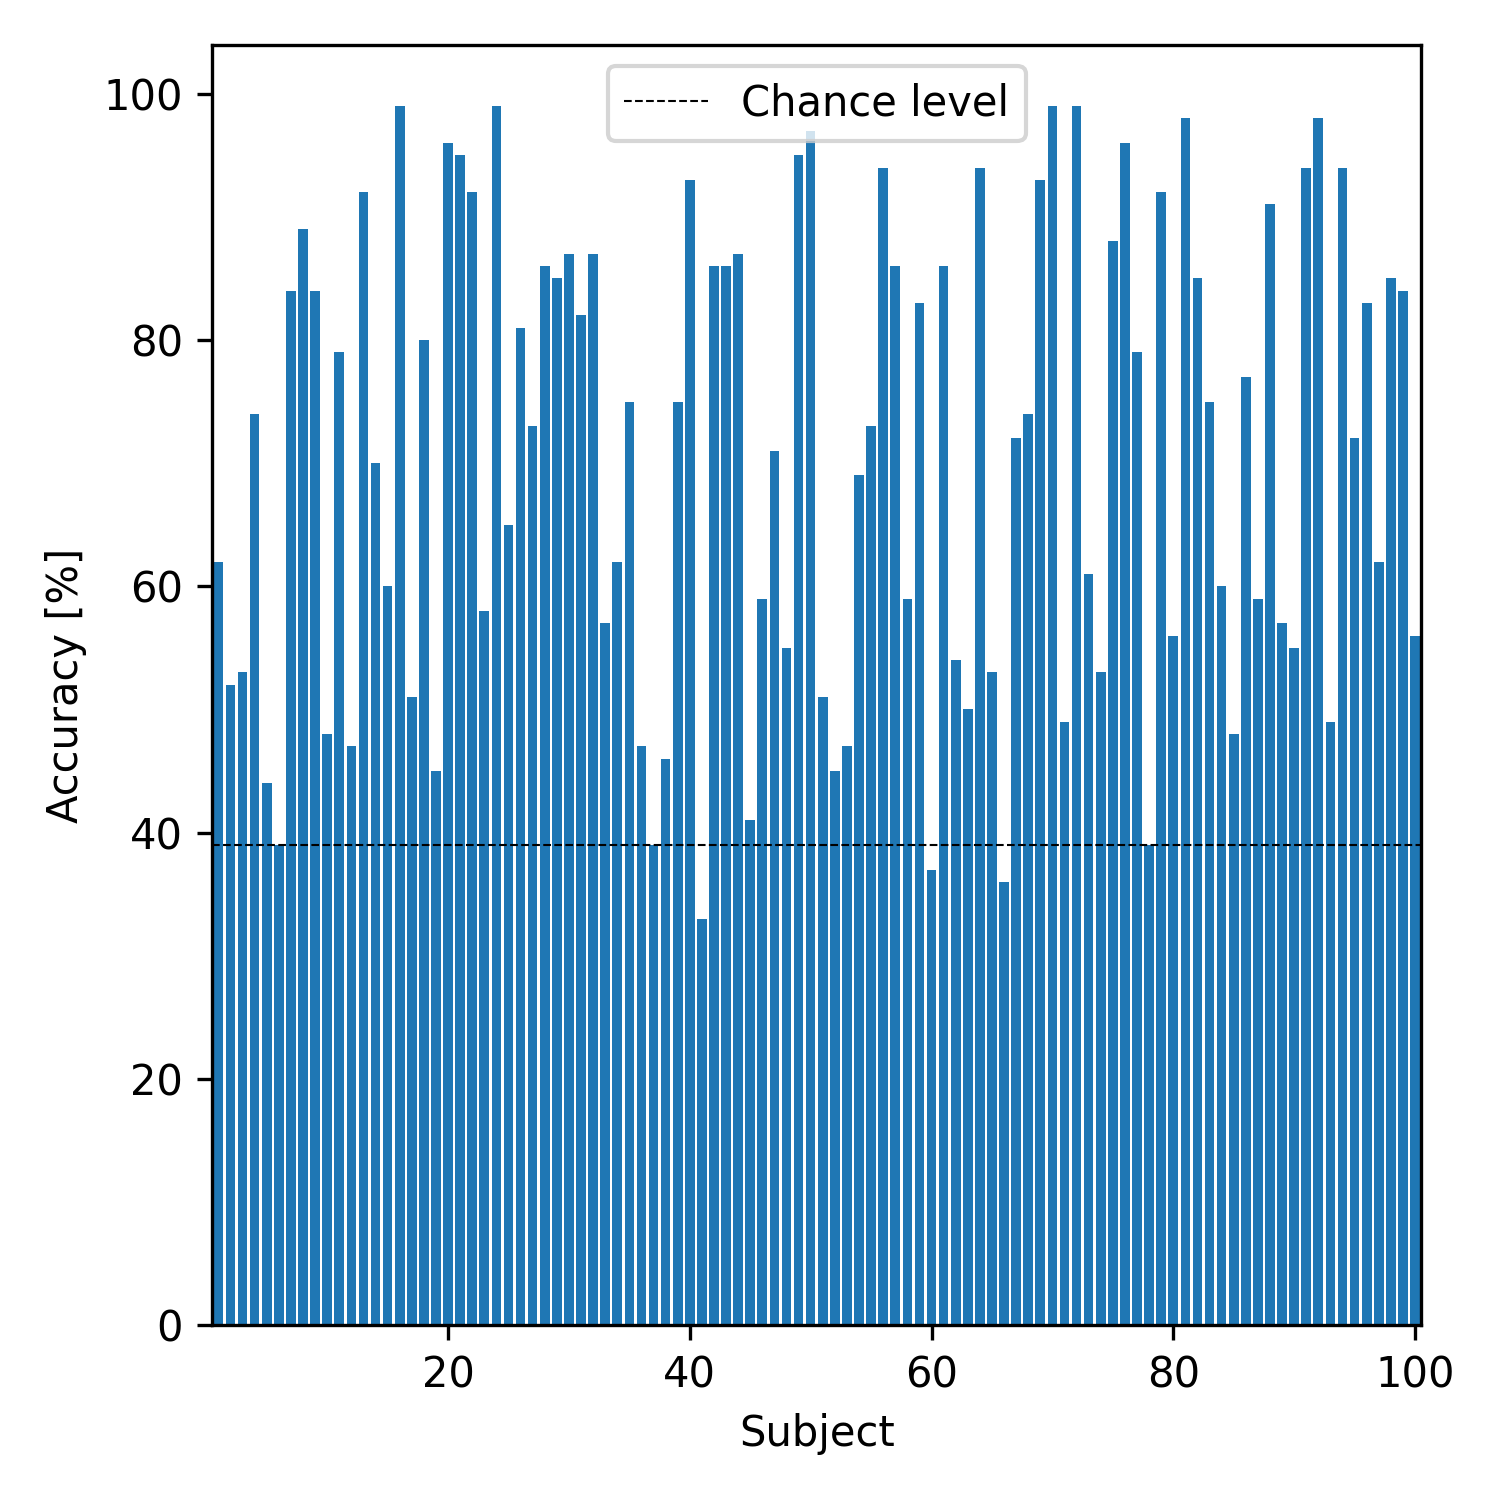
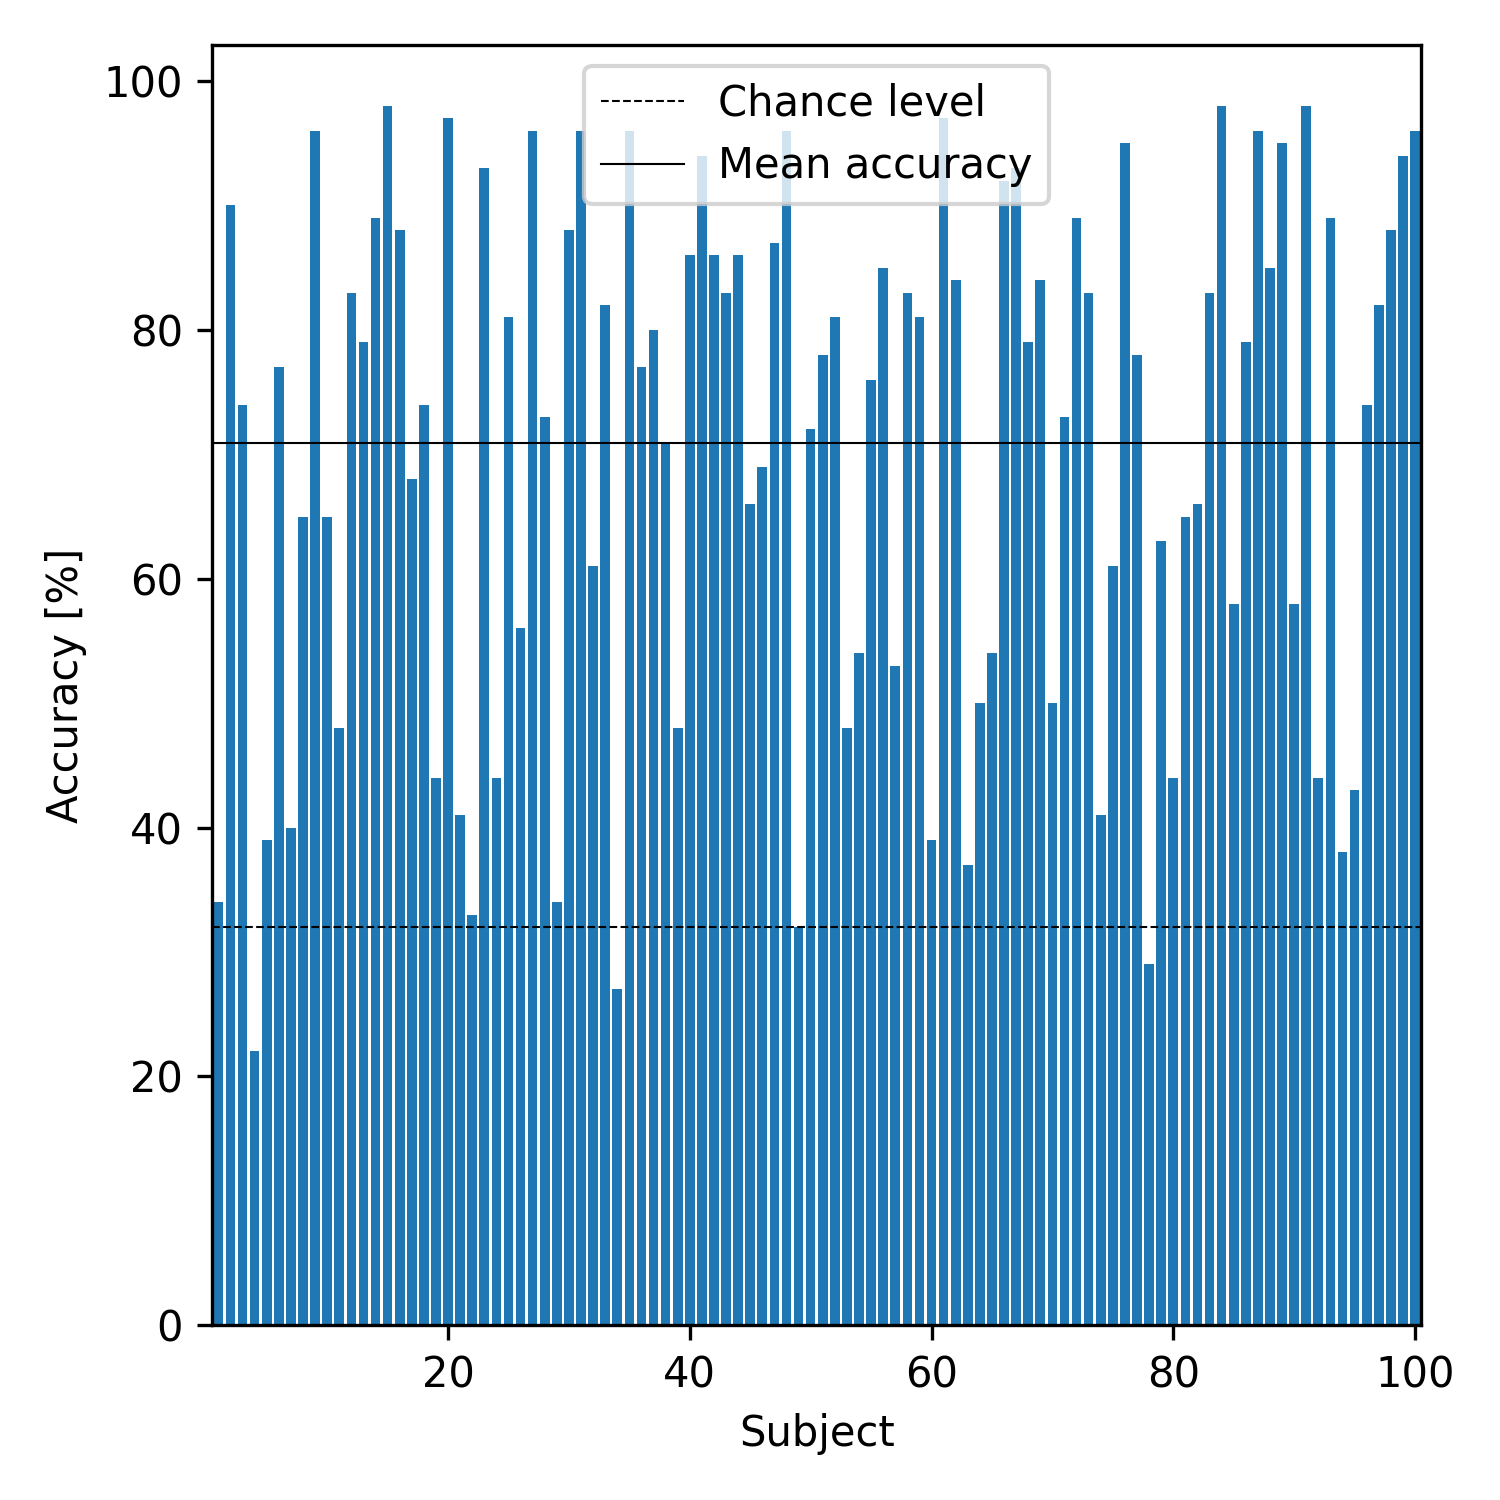
potentially final version of subject level model

diff --git a/recovery/plot_subj_lvl.py b/recovery/plot_subj_lvl.py
@@ -43,15 +43,13 @@ if __name__ == "__main__":
         tmp_sim = sim_data[sim_data["sub"] == sub]
         rec_data = pd.read_csv(rec_path / f"param_rec_subj_{sub}.csv")
 
-        print(rec_data.shape)
-
         # plot the posteriors
-        plot_posteriors_violin(
-            posteriors = [rec_data[f"{param}"] for param in parameters],
-            trues = [tmp_sim[param].unique()[0] for param in parameters],
-            parameter_names = ["$A_{rew}$", "$A_{pun}$", "$\omega_p$", "$\omega_f$", "$K$", "$\\theta$"],
-            savepath = fig_path / f"subj_{sub}_posteriors_ORL.png"
-        )
+        #plot_posteriors_violin(
+        #    posteriors = [rec_data[f"{param}"] for param in parameters],
+        #    trues = [tmp_sim[param].unique()[0] for param in parameters],
+        #    parameter_names = ["$A_{rew}$", "$A_{pun}$", "$\omega_p$", "$\omega_f$", "$K$", "$\\theta$"],
+        #    savepath = fig_path / f"subj_{sub}_posteriors_ORL.png"
+        #-)
 
         for param in parameters:
             suffix_t, suffix_r = "t", "r"

diff --git a/recovery/simulate_subj_lvl.py b/recovery/simulate_subj_lvl.py
@@ -32,8 +32,8 @@ if __name__ in "__main__":
         a_pun = np.random.uniform(0, 1)
 
         K = np.random.uniform(0, 5)
-        omega_f = np.random.uniform(-2, 5)
-        omega_p = np.random.uniform(-2, 5)
+        omega_f = np.random.uniform(-2, 2)
+        omega_p = np.random.uniform(-2, 2)
         theta = np.random.uniform(0, 5)
 
         data = simulate_ORL(
